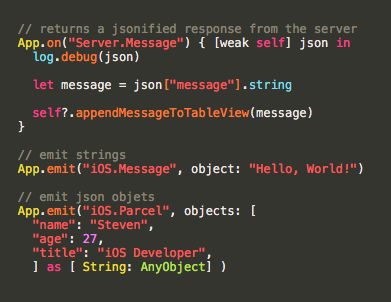
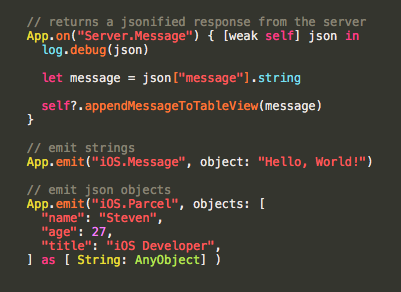
dbg

diff --git a/Pacific/Example.swift b/Pacific/Example.swift
@@ -37,12 +37,12 @@ public class Example {
     // emit strings
     App.emit("iOS.Message", object: "Hello, World!")
     
-    // emit json objets
+    // emit json objects
     App.emit("iOS.Parcel", objects: [
       "name": "Steven",
       "age": 27,
       "title": "iOS Developer",
-      ] as [ String: AnyObject] )
+    ] as [ String: AnyObject] )
     
     
     App.POST("/user/findOne", parameters: [ "_id": "12345" ]) { [weak self] json, error in
